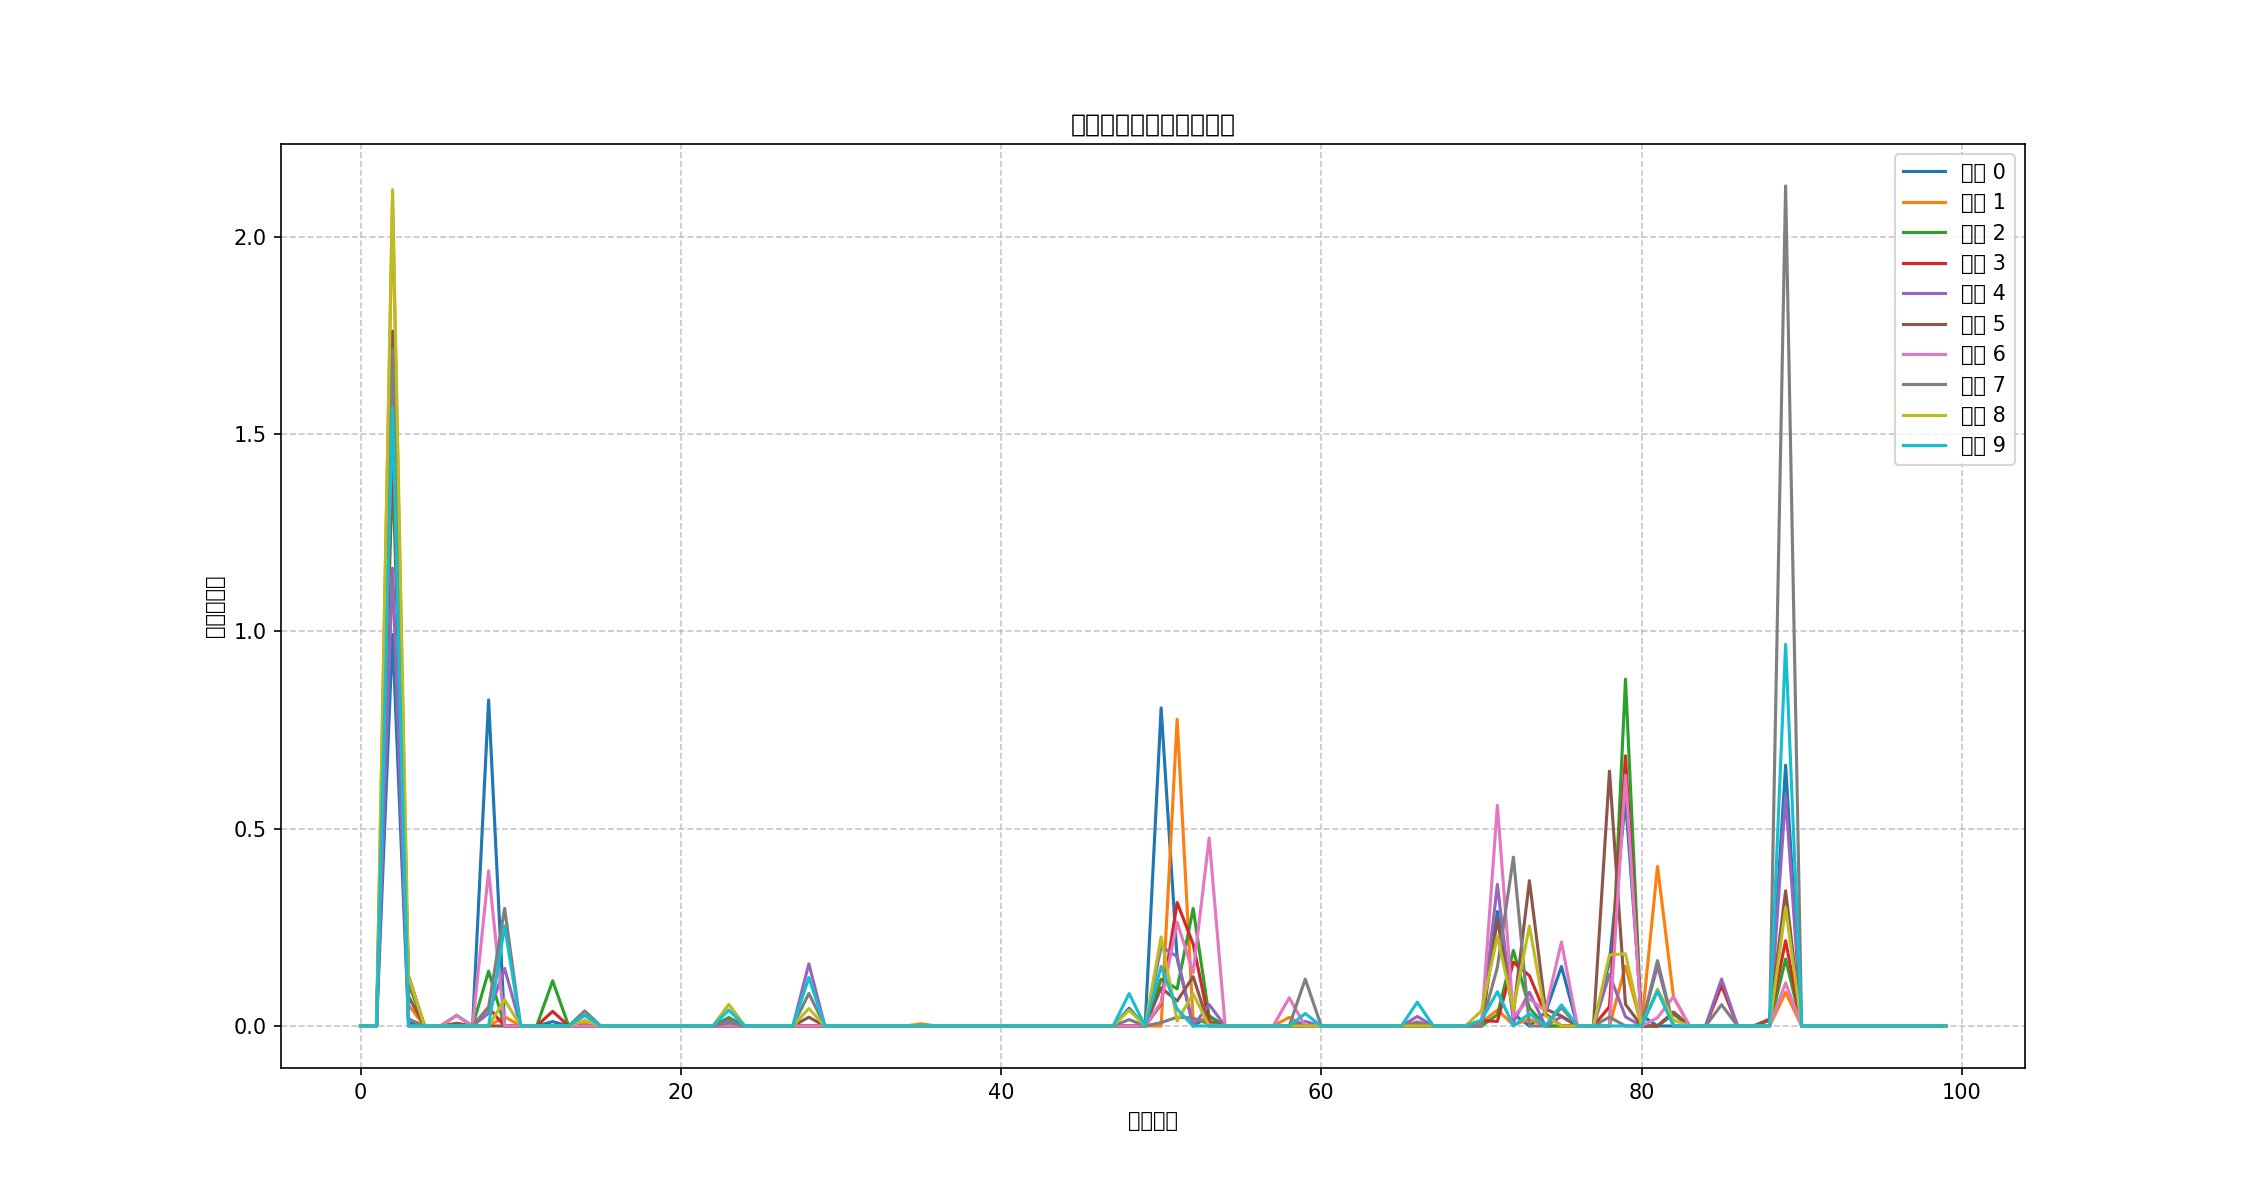
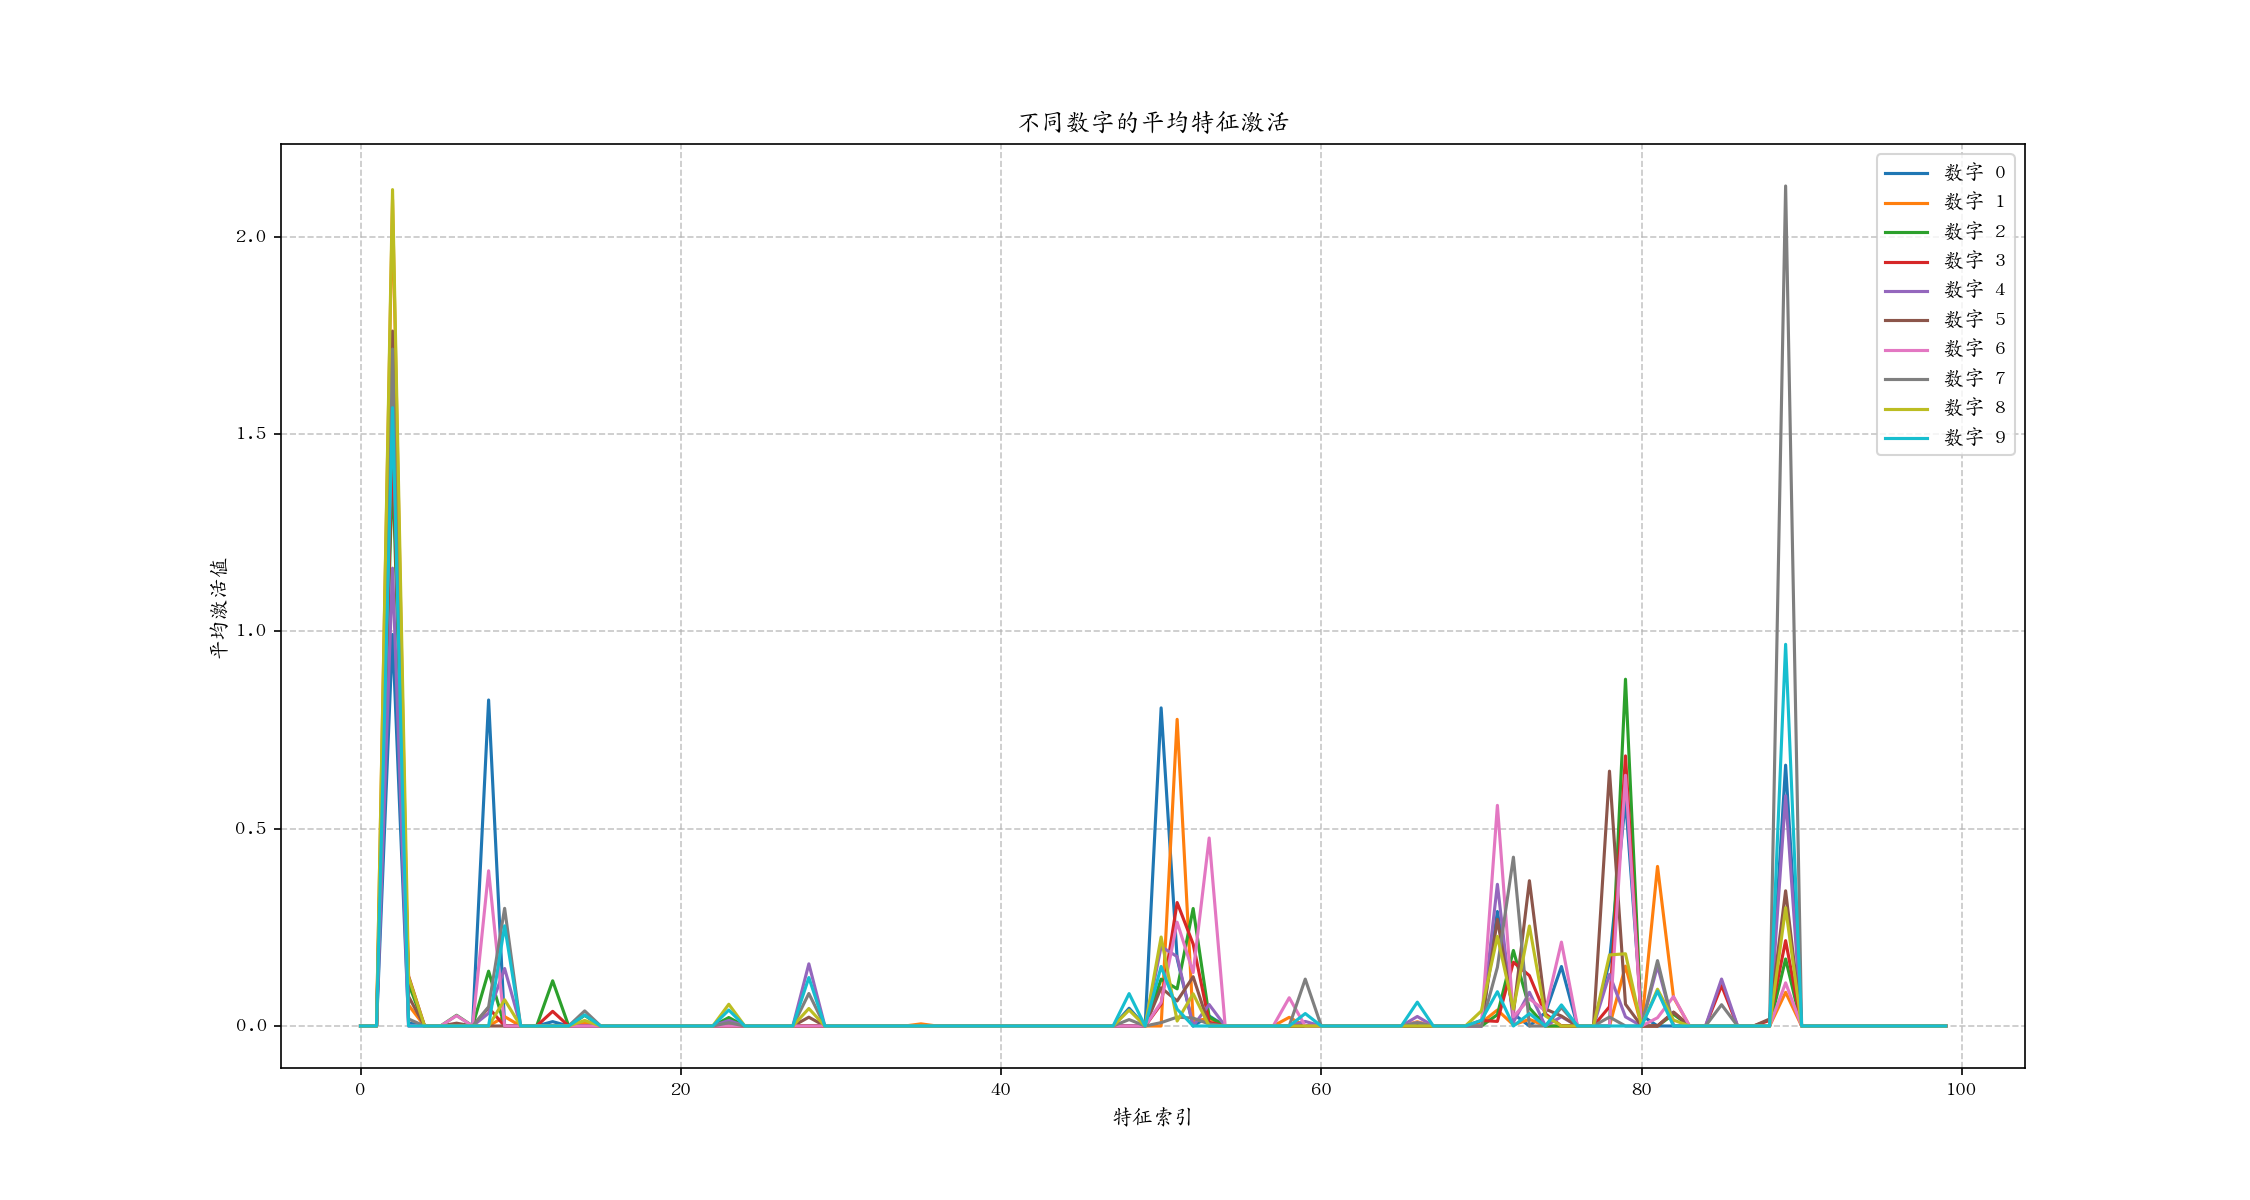
update

diff --git a/mnist_sae_representation_visualize.py b/mnist_sae_representation_visualize.py
@@ -2,6 +2,53 @@ import torch
 import numpy as np
 import matplotlib.pyplot as plt
 import os
+import matplotlib as mpl
+from matplotlib.font_manager import fontManager
+
+# 设置支持中文的字体
+# 根据系统中可用的中文字体设置
+plt.rcParams['font.sans-serif'] = ['AR PL UKai CN', 'AR PL UMing CN', 'DejaVu Sans', 'sans-serif']
+plt.rcParams['axes.unicode_minus'] = False  # 正确显示负号
+print("中文字体设置为 AR PL UKai CN / AR PL UMing CN")
+
+# 定义英文标题版本，以备不支持中文显示
+titles_en = {
+    "MNIST图像表征可视化": "MNIST Image Representation Visualization",
+    "原始": "Original",
+    "标签": "Label",
+    "稀疏表征": "Sparse Representation",
+    "非零": "Non-zero",
+    "表征": "Representation",
+    "热力图": "Heatmap",
+    "重建图像": "Reconstructed Image",
+    "特征索引": "Feature Index",
+    "激活值": "Activation Value",
+    "特征激活频率": "Feature Activation Frequency",
+    "每个特征被激活的概率": "Probability of Each Feature Being Activated",
+    "特征平均激活强度": "Average Feature Activation Strength",
+    "不同数字的平均特征激活": "Average Feature Activation for Different Digits",
+    "数字": "Digit",
+    "平均激活值": "Average Activation Value",
+}
+
+# 确保中文标题能正确显示的函数
+def safe_title(zh_title, en_title=None):
+    """尝试使用中文标题，如果失败则使用英文标题"""
+    if en_title is None and zh_title in titles_en:
+        en_title = titles_en[zh_title]
+    
+    try:
+        # 测试中文显示
+        fig = plt.figure(figsize=(1, 1))
+        plt.title(zh_title)
+        plt.close(fig)
+        return zh_title
+    except:
+        if en_title:
+            return en_title
+        else:
+            # 如果没有英文替代，将中文转换为拼音或直接返回
+            return "Title"
 import argparse
 from torchvision import datasets, transforms
 from torch.utils.data import DataLoader, Dataset

diff --git a/mnist_sae_visualize.py b/mnist_sae_visualize.py
@@ -2,6 +2,49 @@ import torch
 import numpy as np
 import matplotlib.pyplot as plt
 import os
+import matplotlib as mpl
+from matplotlib.font_manager import fontManager
+
+# 设置支持中文的字体
+# 根据系统中可用的中文字体设置
+plt.rcParams['font.sans-serif'] = ['AR PL UKai CN', 'AR PL UMing CN', 'DejaVu Sans', 'sans-serif']
+plt.rcParams['axes.unicode_minus'] = False  # 正确显示负号
+print("中文字体设置为 AR PL UKai CN / AR PL UMing CN")
+
+# 定义英文标题版本，以备不支持中文显示
+titles_en = {
+    "原始MNIST图像与SAE重建对比": "MNIST Original vs SAE Reconstruction",
+    "原始": "Original",
+    "重建": "Reconstruction",
+    "相关性": "Correlation",
+    "标签": "Label",
+    "SAE学习到的特征（前100个）": "SAE Learned Features (Top 100)",
+    "SAE训练过程中的重建质量变化": "SAE Reconstruction Quality During Training",
+    "重建相关系数": "Reconstruction Correlation",
+    "重建图像已保存到": "Reconstruction images saved to",
+    "特征可视化已保存到": "Feature visualization saved to",
+    "训练指标可视化已保存到": "Training metrics saved to",
+    "平均相关系数": "Average correlation",
+}
+
+# 确保中文标题能正确显示的函数
+def safe_title(zh_title, en_title=None):
+    """尝试使用中文标题，如果失败则使用英文标题"""
+    if en_title is None and zh_title in titles_en:
+        en_title = titles_en[zh_title]
+    
+    try:
+        # 测试中文显示
+        fig = plt.figure(figsize=(1, 1))
+        plt.title(zh_title)
+        plt.close(fig)
+        return zh_title
+    except:
+        if en_title:
+            return en_title
+        else:
+            # 如果没有英文替代，将中文转换为拼音或直接返回
+            return "Title"
 import argparse
 from torchvision import datasets, transforms
 from torch.utils.data import DataLoader, Dataset
